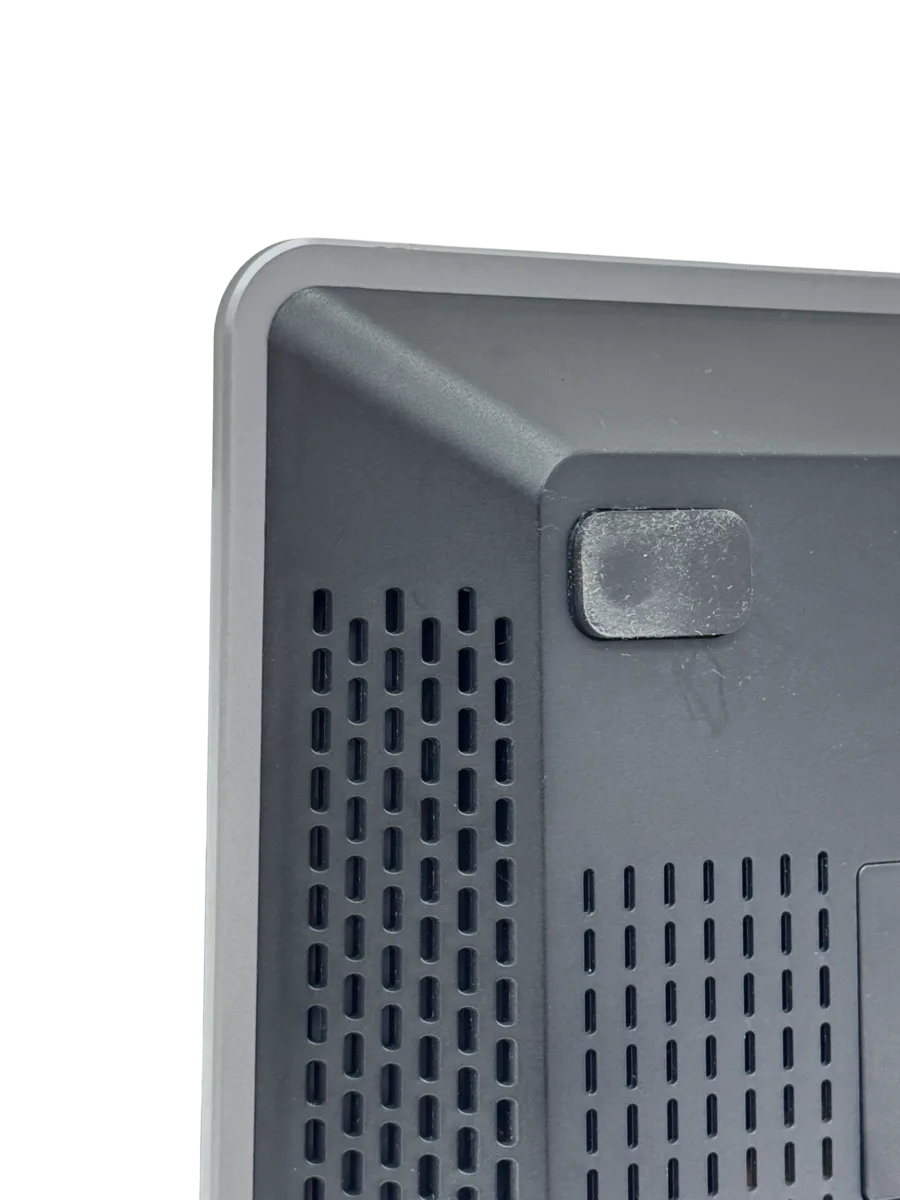
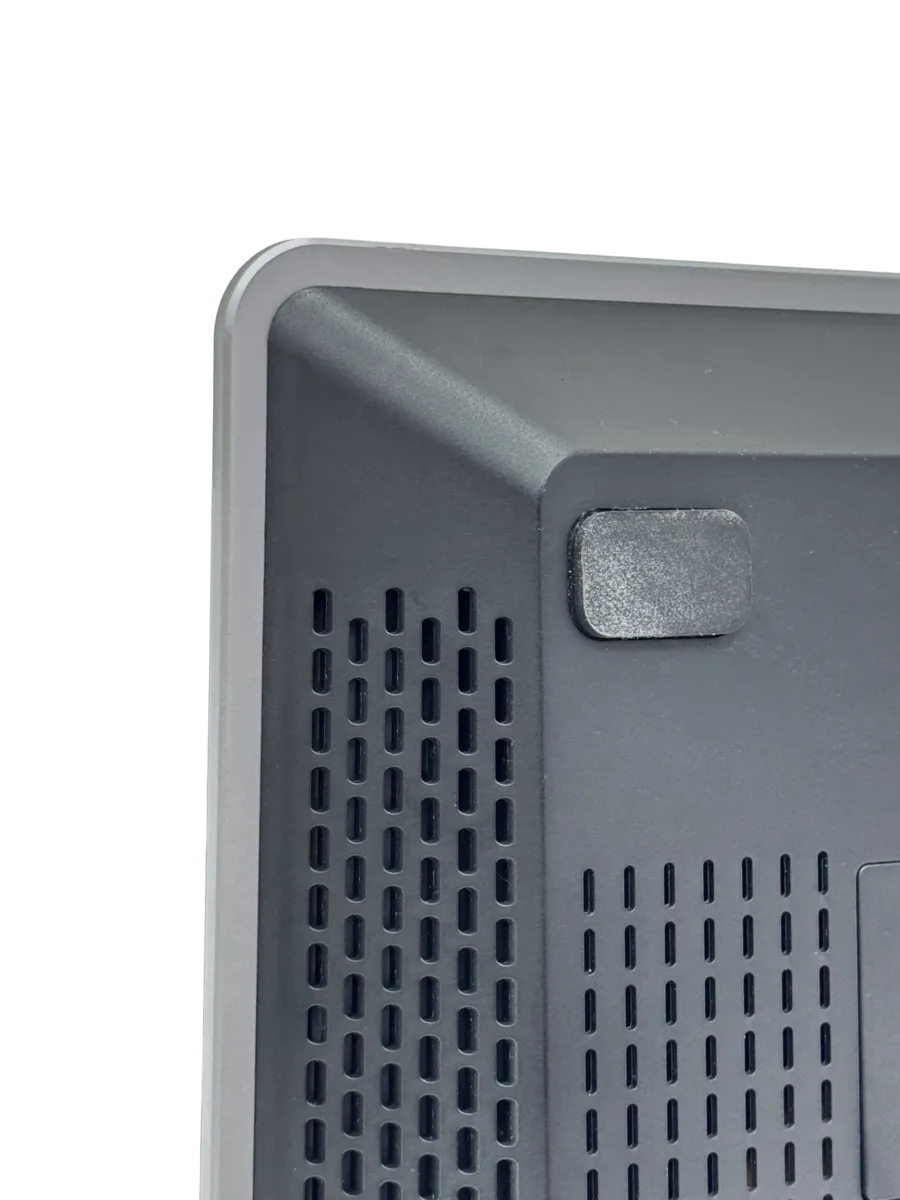
perf: convert remaining hero/device PNGs to WebP, add theme-color
- Wire up cafe-bg.webp (was still using 3.1MB PNG)
- Convert KIOSK/POS/Printer/QR-Code to WebP (192KB → 36KB)
- Update autopos ONE F4 demo photo (user-supplied replacement)
- Add <meta name="theme-color" content="#0d1f2d"> for mobile browser chrome
- Remove ?v=2 cache buster from autopos-logo.png

Changed region(s): [[0.6533, 0.4317, 0.84, 0.5242]]

diff --git a/index.html b/index.html
@@ -7,6 +7,7 @@
   <meta property="og:title" content="碩豐 SOFONE | 串聯軟硬體，賦能數位轉型">
   <meta property="og:description" content="您的 ERP，我的系統整合。專注全球展店，技術瑣事交給碩豐。">
   <meta property="og:image" content="assets/sofone-logo.png">
+  <meta name="theme-color" content="#0d1f2d">
   <link rel="icon" href="assets/favicon.png" type="image/png">
   <title>碩豐 SOFONE | 串聯軟硬體，賦能數位轉型</title>
   <link rel="stylesheet" href="style.css">
@@ -70,14 +71,14 @@
       <div class="map-stage">
 
         <!-- Base isometric background -->
-        <img src="assets/Cafe%20Background.png"
+        <img src="assets/webp/cafe-bg.webp"
              alt="餐廳場域示意圖"
              class="map-bg"
              draggable="false">
 
         <!-- KIOSK -->
         <div class="map-device" data-device="kiosk">
-          <img src="assets/KIOSK.png" alt="CentrDX Kiosk" class="device-img" draggable="false">
+          <img src="assets/webp/KIOSK.webp" alt="CentrDX Kiosk" class="device-img" draggable="false">
           <div class="device-tooltip">
             <p class="tooltip-title" data-i18n="device.kiosk.title">Autopos 自助點餐機</p>
             <p class="tooltip-desc" data-i18n="device.kiosk.desc">告別排隊！提供整合會員積分、特價活動與多支付渠道的自助服務，讓人力專注於核心服務。</p>
@@ -86,7 +87,7 @@
 
         <!-- POS -->
         <div class="map-device" data-device="pos">
-          <img src="assets/POS.png" alt="Autopos POS" class="device-img" draggable="false">
+          <img src="assets/webp/POS.webp" alt="Autopos POS" class="device-img" draggable="false">
           <div class="device-tooltip">
             <p class="tooltip-title" data-i18n="device.pos.title">Autopos 全球收銀引擎</p>
             <p class="tooltip-desc" data-i18n="device.pos.desc">專為連鎖打造的高穩定收銀核心，即使網路斷線也能正常結帳，總部數據即時透明，跨國稅務合規無憂。</p>
@@ -95,7 +96,7 @@
 
         <!-- Printer -->
         <div class="map-device" data-device="printer">
-          <img src="assets/Printer.png" alt="出單列印機" class="device-img" draggable="false">
+          <img src="assets/webp/Printer.webp" alt="出單列印機" class="device-img" draggable="false">
           <div class="device-tooltip">
             <p class="tooltip-title" data-i18n="device.printer.title">熱感出單機</p>
             <p class="tooltip-desc" data-i18n="device.printer.desc">整合 Autopos POS、CentrDX 外送平台與 Kiosk 自助點餐，多來源訂單即時出單，零漏單。</p>
@@ -104,7 +105,7 @@
 
         <!-- QR Code -->
         <div class="map-device" data-device="qr">
-          <img src="assets/QR%20Code.png" alt="QR Code 掃碼點餐" class="device-img" draggable="false">
+          <img src="assets/webp/QR-Code.webp" alt="QR Code 掃碼點餐" class="device-img" draggable="false">
           <div class="device-tooltip">
             <p class="tooltip-title" data-i18n="device.qr.title">CentrDX 掃碼點餐</p>
             <p class="tooltip-desc" data-i18n="device.qr.desc">掃碼即可自助下單，無需下載 APP，有效降低高峰期服務壓力，提升點餐效率。</p>
@@ -138,7 +139,7 @@
   <section class="autopos-section" id="autopos">
     <div class="section-inner">
       <div class="product-logo-wrap reveal">
-        <img src="assets/autopos-logo.png?v=2" alt="autopos" class="product-logo">
+        <img src="assets/autopos-logo.png" alt="autopos" class="product-logo">
       </div>
       <p class="section-eyebrow reveal" data-i18n="autopos.eyebrow">Autopos · 全球雲端收銀生態系</p>
       <h2 class="section-h2 reveal" data-i18n="autopos.h2">跨國佈局，別讓系統成了你的絆腳石。</h2>